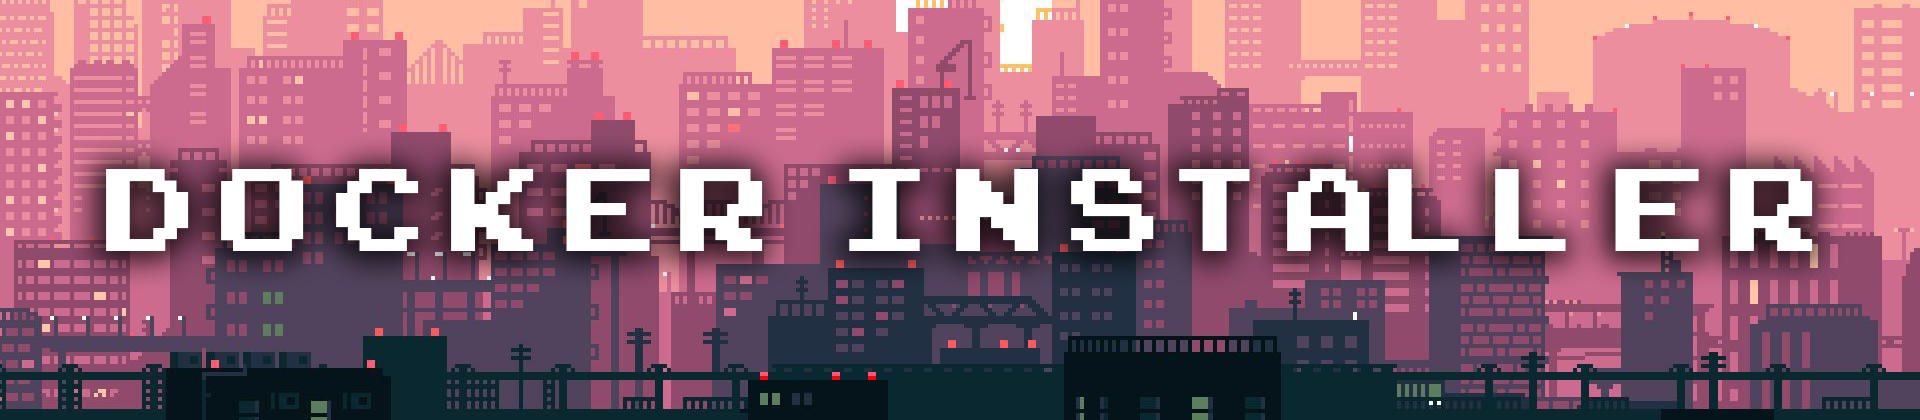
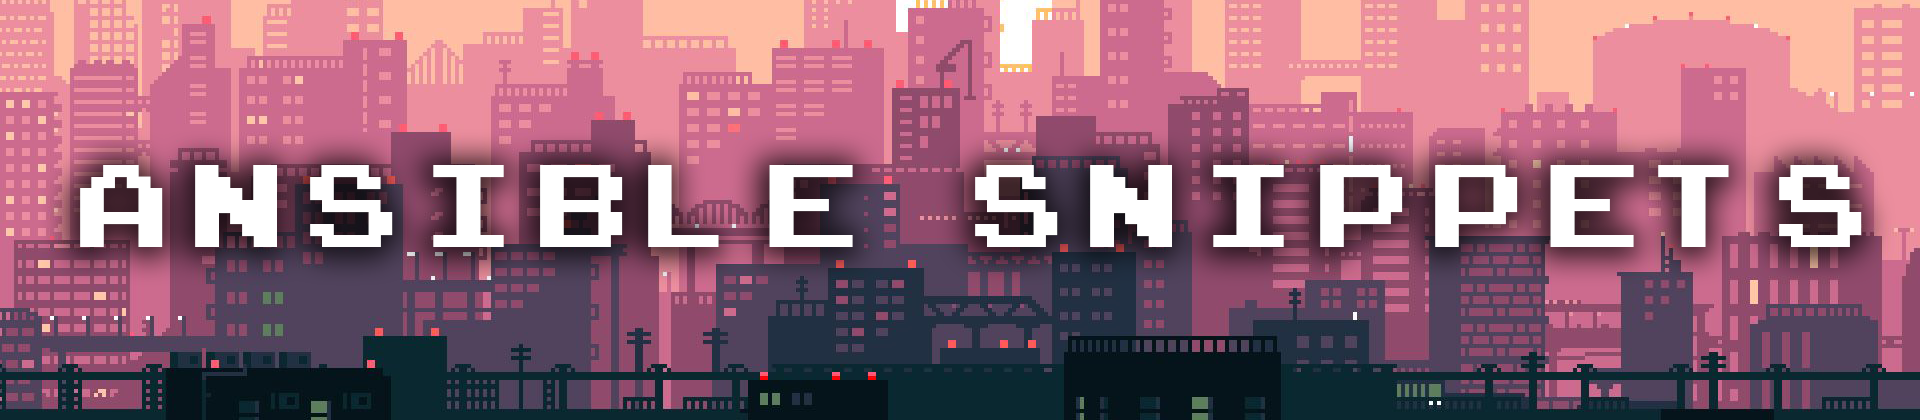
[ansible:snippets] build the readme

Changed region(s): [[0.0312, 0.3405, 1.0, 0.65]]

diff --git a/projects 009 - ansible/ansible 001 - snippets/README.md b/projects 009 - ansible/ansible 001 - snippets/README.md
@@ -7,74 +7,30 @@
 
 <img src="img/badge1.svg"/>
 <img src="img/badge2.svg"/>
+<img src="img/badge3.svg"/>
 <br />
 <br />
 Ansible Snippets is an a collection of YAML scripts and Adhoc commands.
 
-I wanted to deploy a docker swarm. My only problem was that all the available virtual machines doesn't have docker
+I wanted to experiment with ansible and trying the multiple options that it could offer
 
 **This is why I created this project**.
 
-[Key Features](#key-features) •
-[Installation](#installation) •
+[Snippit List](#snippit-list) •
 [Technologies Used](#technologies-used) •
 [Contact Me](#contact-me) 
 
 
 
-![Main Image](img/main.gif)
-
 
 </div>
 
-## Key Features
+## Snippit List
 
-- Ability to execute command on hundreds of machine instances.
-- It can work with both on-prem and in the cloud (AWS, Azure, GCP...etc) 
-- It has the ability to install docker which is the most popular containerization and orchestration software
+1. multiple_installation.yml is a snippet I built to test vars and with_items
+2. adhoc.txt is a snippet I built to test adhoc commands
+3. inventory.ini is a snippet I built to give a command across multiple machines
 
-## Installation
-
-### *Step 1: Install SSH Server*
-
-Ansible relies on ssh protocol to execute commands accross all the notes. So First you need to have a running ssh server in all of the nodes. You can Install it on debian based distributions using the following commands
-
-```
-sudo apt-get update
-sudo apt-get upgrade
-sudo apt-get install openssh-server
-sudo systemctl start ssh
-```
-
-### *Step 2: Modify the inventory*
-
-Inventory is a configuration file which contains all the important information about the machines you want to configure. So make sure to modify ``inventory.ini`` as follows
-
-- Change the ip address to match the ip address on all of your nodes
-- Change the ansible_user variable to match the name of the user in your machine
-- Change the ansible_password variable to match the name of the password in your machine
-
-### *Step 3: Check if the network is working*
-
-Run the following command to check if all the configuration is running good, But make sure to 
-
-- Change the ``<host>`` to the name of the group you want to install docker onwhich is in our case is ``servers``
-- Change the ``<inventory>`` to the name of inventory file which is in our case is ``inventory.ini``
-  
-```
-ansible <host>-i <inventory> -m ping -K → check if servers are online
-```
-
-### *Step 4: Run the playbook*
-Now run the playbook using the following command, But make sure to
-
-- Provide sudo password when you are asked to
-- Change the ``<inventory>`` to the name of inventory file which is in our case is ``inventory.ini``
-- Change the ``<playbook>`` to the name of the playbook which is in our case is ``install_docker.yml``
-
-```
-ansible-playbook -i <inventory> <Playbook> -K 
-```
 
 ## Technologies Used
 
